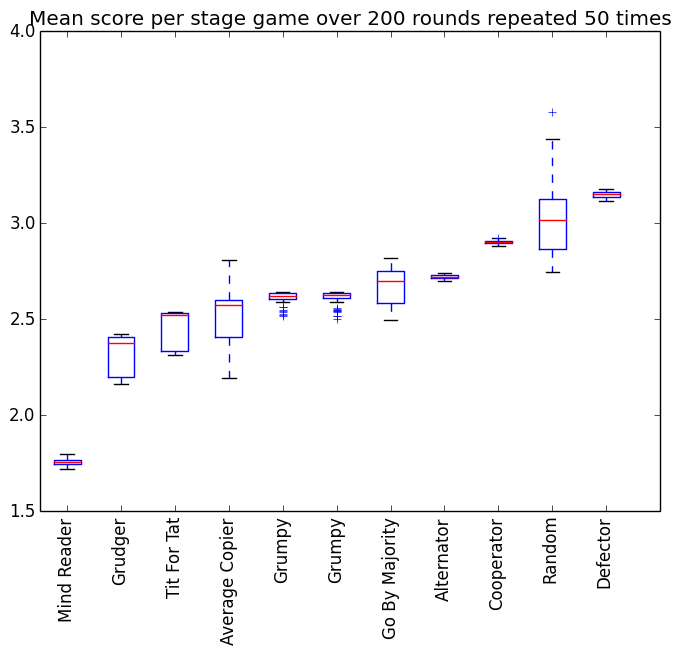
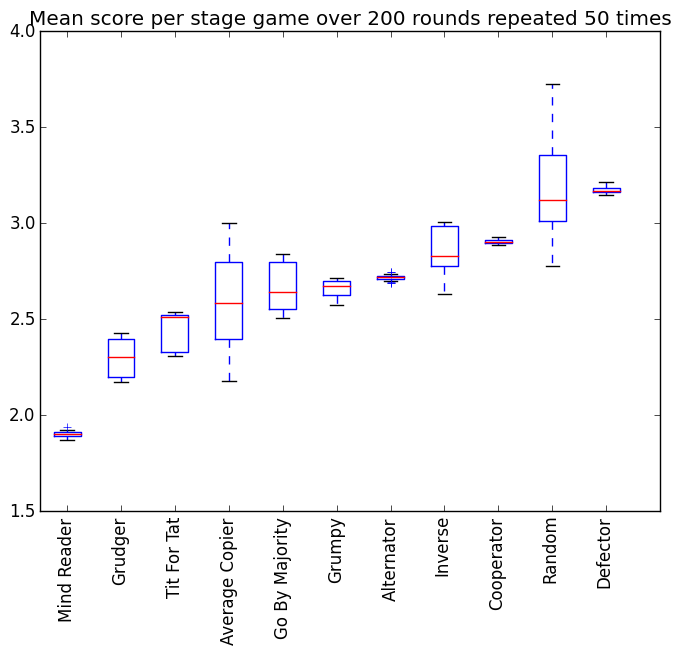
Rerunning results

diff --git a/run_tournament.py b/run_tournament.py
@@ -16,7 +16,7 @@ all_strategies = strategies + cheating_strategies
 graphs_to_plot = {'results.png':strategies, 'cheating_results.png':cheating_strategies, 'all_results':all_strategies}
 
 for plot in graphs_to_plot:
-    if len(graphs_to_plot[plot]) == 1:
+    if len(graphs_to_plot[plot]) != 1:
         axelrod_tournament = axelrod.Axelrod(*graphs_to_plot[plot])
         results = axelrod_tournament.tournament(turns=turns, repetitions=repetitions)
         players = sorted(axelrod_tournament.players, key = lambda x: median(results[x]))
